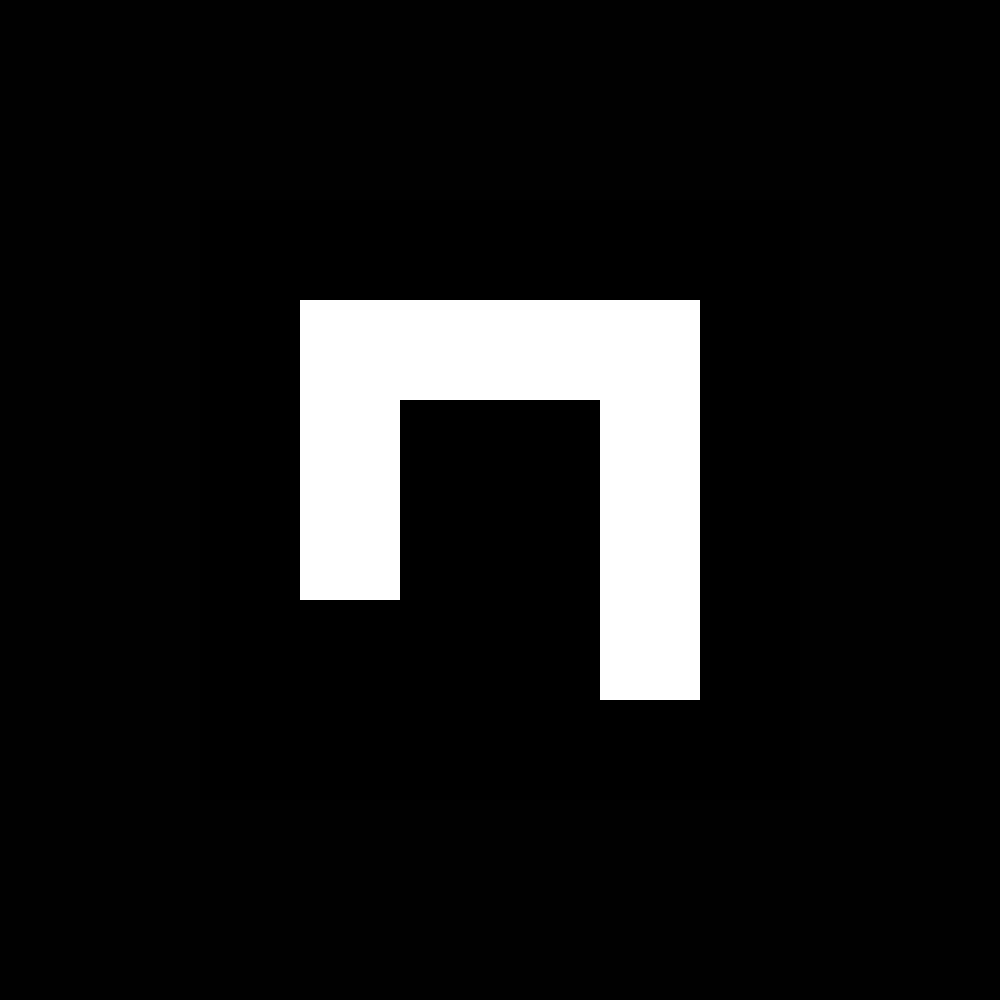
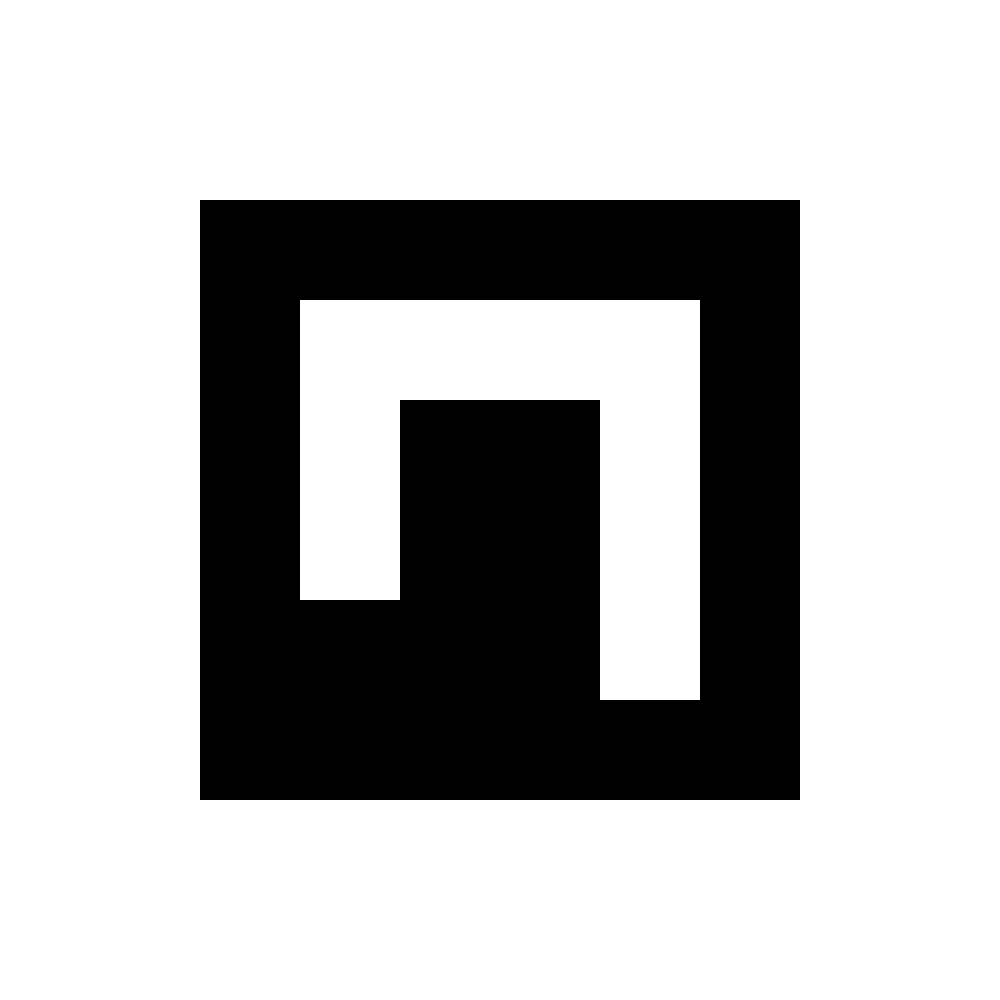
testing in lab. trying to get 4 corners of the screen

diff --git a/src/triangulation.py b/src/triangulation.py
@@ -1,7 +1,8 @@
 import cv2
 import numpy as np
 from picoControl import PicoControl
-
+from PIL import ImageGrab
+import time
 
 class Camera:
     def __init__(self, mtx, dist) -> None:
@@ -93,25 +94,35 @@ class Triangulation:
             self.cam1.projection, self.cam2.projection, undistort1, undistort2)
         return position
 
-    def getProjectorPositionStream(self, cap1: cv2.VideoCapture, cap2: cv2.VideoCapture, markerWidth: int) -> bool:
-        pico = PicoControl(0)
-        pico.setIRCutFilter(1)
+    def getProjectorPositionStream(self, cap1: cv2.VideoCapture, cap2: cv2.VideoCapture) -> bool:
+        # pico = PicoControl(0)
+        # pico.setIRCutFilter(1)
         # figure out coordinates of this and add white boarder
-        cv2.imshow("Aruco", cv2.imread("src/aruco10.png"))
-        cv2.waitKey(0)
+        imS = cv2.resize(cv2.imread("src/aruco10.png"), (500, 500))
+        cv2.imshow("Aruco", imS)
+        
+        cv2.waitKey(1)
+        time.sleep(2)
+        screenShot = np.array(ImageGrab.grab())
+        screenShot = cv2.cvtColor(screenShot, cv2.COLOR_BGR2GRAY)
+        cv2.imwrite("screenShot.png", screenShot)
+        (screenShotCorners, idsScreenShot, rejectedImgPoints) = self.ArucoDetector.detectMarkers(screenShot)
+        screenShotCorners = screenShotCorners[0]
         # do a screen grab of the display
         # find the marker in the screen shot to get pixel coordinates
+        i = 0
         while True:
+            i += 1
             # read in images
             grabbed1, frame1 = cap1.read()
             grabbed2, frame2 = cap2.read()
+            gray1,r1,g1 = cv2.split(frame1)
+            gray2, r2, g2 = cv2.split(frame2)
             # detect markers
-            gray1 = cv2.cvtColor(frame1, cv2.COLOR_BGR2GRAY)
             (corners1, ids1, rejectedImgPoints) = self.ArucoDetector.detectMarkers(gray1)
-            gray2 = cv2.cvtColor(frame2, cv2.COLOR_BGR2GRAY)
             (corners2, ids2, rejectedImgPoints) = self.ArucoDetector.detectMarkers(gray2)
             if ids1 is not None and ids2 is not None:
-                pico.setIRCutFilter(0)
+                # pico.setIRCutFilter(0)
                 cv2.destroyAllWindows()
                 # figure out which cam is which and
                 mean1 = np.mean(corners1[0][0][:, 0])
@@ -120,27 +131,30 @@ class Triangulation:
                     self.cam1, self.cam2 = self.cam2, self.cam1
                 corners1 = corners1[0]
                 corners2 = corners2[0]
-                points = np.zeros((4, 3))
-                for i, corner1, corner2 in enumerate(zip(corners1, corners2)):
-                    points[i] = self.get3dPoint(corner1, corner2)[:3]
-                # markers  TL TR BR BL
-                # markerWidth = np.mean(
-                #     [np.linalg.norm(points[0] - points[1]), np.linalg.norm(points[0] - points[3]), np.linalg.norm(points[1] - points[2]), np.linalg.norm(points[2] - points[3])])
-                # rvec1, tvec1, markerpos1 = cv2.aruco.estimatePoseSingleMarkers(
-                #     corners1[0], markerWidth, self.cam1.mtx, self.cam1.dist)
+                cam1TL, cam1TR, cam1BL, cam1BR = self.getProjectorTransform(corners1, screenShotCorners, screenShot.shape[0], screenShot.shape[1])
+                cam2TL, cam2TR, cam2BL, cam2BR = self.getProjectorTransform(corners2, screenShotCorners, screenShot.shape[0], screenShot.shape[1])
+                cv2.imwrite("gray1.png", gray1)
+                cv2.imwrite("gray2.png", gray2)
+                print(cam1TL, cam1TR, cam1BL, cam1BR)
+                TL = self.get3dPoint(cam1TL, cam2TL)[:3].reshape(3)
+                TR = self.get3dPoint(cam1TR, cam2TR)[:3].reshape(3)
+                BL = self.get3dPoint(cam1BL, cam2BL)[:3].reshape(3)
+                BR = self.get3dPoint(cam1BR, cam2BR)[:3].reshape(3)
+                print(TL, TR, BL, BR)
+                v1,v2,v3 = createPlane(TL,TR,BL)
+                transform = transform(TL,v1,v2,v3)
+                rod = transform[:3,:3]
+                
+                print(transform, rod)
 
-                # find rotation and translation of the marker from the 3d points
-                # use the pixel coordinates of the marker and the length of the edges to extrapolate the TL and BR corners
-                # get the rvec and tvec of the TL corner and the width and length of the projected image
-
-                # return the rvec and tvec of the TL corner and the width and length of the projected image
+                
     
-    def getProjectorTransform(self, camCorners: np.ndarray, imCorners: np.ndarray, imWidth, imHeight) -> np.ndarray:
-        camCorners = camCorners[0]
+    def getProjectorTransform(self, camCorners: np.ndarray, imCorners: np.ndarray, imWidth, imHeight):
+        camCorners = camCorners.reshape(4,2)
+        imCorners = imCorners.reshape(4,2)
         temp = camCorners[2].copy()
         camCorners[2] = camCorners[3]
         camCorners[3] = temp
-        imCorners = imCorners[0]
         temp = imCorners[2].copy()
         imCorners[2] = imCorners[3]
         imCorners[3] = temp
@@ -148,6 +162,25 @@ class Triangulation:
         pts2 = np.float32(imCorners)
         matrix = cv2.getPerspectiveTransform(pts2,pts1)
         #return coordinates of the corners of the image in the camera frame
-        TL = np.matmul(matrix, np.array([0, 0, 1]))
-        BR = np.matmul(matrix, np.array([imWidth, imHeight, 1]))
-        return TL, BR
+        TL = np.matmul(matrix, np.array([0, 0, 1]))[:2]
+        TR = np.matmul(matrix, np.array([imWidth, 0, 1]))[:2]
+        BL = np.matmul(matrix, np.array([0, imHeight, 1]))[:2]
+        BR = np.matmul(matrix, np.array([imWidth, imHeight, 1]))[:2]
+        return TL, TR, BL, BR
+    
+def createPlane(P1,P2, P3):
+    v1 = P2 - P1
+    v2 = P3 - P1
+    # Calculate the normal vector using the cross product
+    v3 = np.cross(v1, v2)
+    # Normalize the normal vector (optional)
+    v1Norm = v1 / np.linalg.norm(v1)
+    v2Norm = v2 / np.linalg.norm(v2)
+    v3Norm = v3 / np.linalg.norm(v3)
+
+    return(v1Norm,v2Norm,v3Norm)
+
+def transform(center, v1,v2,v3):
+
+    transform = [[v1[0],v1[1], v1[2], -center[0] ], [v2[0],v2[1], v2[2], -center[1] ],[v3[0],v3[1], v3[2], -center[2] ],[0,0, 0, 1 ]]
+    return transform

diff --git a/src/testProjectorSpace.py b/src/testProjectorSpace.py
@@ -1,0 +1,32 @@
+import triangulation as tri
+import numpy as np
+
+from webcamStream import openStream
+from triangulation import Triangulation, Camera
+import cv2
+import numpy as np
+imHeight = 1080
+imWidth = 1920
+exposure = -8
+markerWidth = 0.1586
+npfile = np.load("cameraIntrinsics/IRCam1.npz")
+mtx1 = npfile["mtx"]
+dist1 = npfile["dist"]
+npfile = np.load("cameraIntrinsics/IRCam2.npz")
+mtx2 = npfile["mtx"]
+dist2 = npfile["dist"]
+npfile = np.load("src/relativePose.npy")
+cap1 = openStream(0, imHeight, imWidth, exposure=exposure)
+cap2 = openStream(1, imHeight, imWidth, exposure=exposure)
+# need to crop the images
+while True:
+    ret1, frame1 = cap1.read()
+    ret2, frame2 = cap2.read()
+    if ret1 and ret2:
+        break
+
+tri = Triangulation(Camera(mtx1, dist1), Camera(mtx2, dist2))
+tri.relativePose = npfile
+tri.cam2.setPose(np.linalg.inv(tri.relativePose))
+tri.getProjectorPositionStream(cap1, cap2)
+

diff --git a/src/getOrientation.py b/src/getOrientation.py
@@ -1,0 +1,26 @@
+from webcamStream import openStream
+from triangulation import Triangulation, Camera
+import cv2
+import numpy as np
+imHeight = 1080
+imWidth = 1920
+exposure = -8
+markerWidth = 0.1586
+npfile = np.load("cameraIntrinsics/IRCam1.npz")
+mtx1 = npfile["mtx"]
+dist1 = npfile["dist"]
+npfile = np.load("cameraIntrinsics/IRCam2.npz")
+mtx2 = npfile["mtx"]
+dist2 = npfile["dist"]
+cap1 = openStream(0, imHeight, imWidth, exposure=exposure)
+cap2 = openStream(1, imHeight, imWidth, exposure=exposure)
+# need to crop the images
+while True:
+    ret1, frame1 = cap1.read()
+    ret2, frame2 = cap2.read()
+    if ret1 and ret2:
+        break
+
+tri = Triangulation(Camera(mtx1, dist1), Camera(mtx2, dist2))
+tri.getCameraPositionsStream(cap1, cap2, markerWidth)
+np.save("relativePose.npz", tri.relativePose)

diff --git a/src/makeMarker.py b/src/makeMarker.py
@@ -6,13 +6,17 @@ import numpy as np
 import sys
 
 arucoDict = cv2.aruco.getPredefinedDictionary(cv2.aruco.DICT_4X4_1000)
-tagOut = np.ones((1000, 1000, 1), dtype='uint8')*0.9999
+tagOut = np.ones((1000, 1000, 3), dtype='uint8')*255
 tag = np.zeros((600, 600, 1), dtype='uint8')
 # args, dict, id, sideLength, img variable, borderBits
 cv2.aruco.generateImageMarker(arucoDict, 10, 600, tag, 1)
-tagOut[200:800, 200:800] = tag
-cv2.imshow("aruco10", tagOut)
-cv2.waitKey(0)
-cv2.moveWindow("aruco10", 100, 100)
-cv2.waitKey(0)
+tagOut[200:800, 200:800, :] = tag
+# cv2.moveWindow("aruco10", 100, 100)
+# cv2.waitKey(0)
+print(tagOut.shape)
 cv2.imwrite("aruco10.png", tagOut)
+im = cv2.imread("aruco10.png")
+cv2.imshow("test", im)
+cv2.waitKey(0)
+print(im.shape)
+
